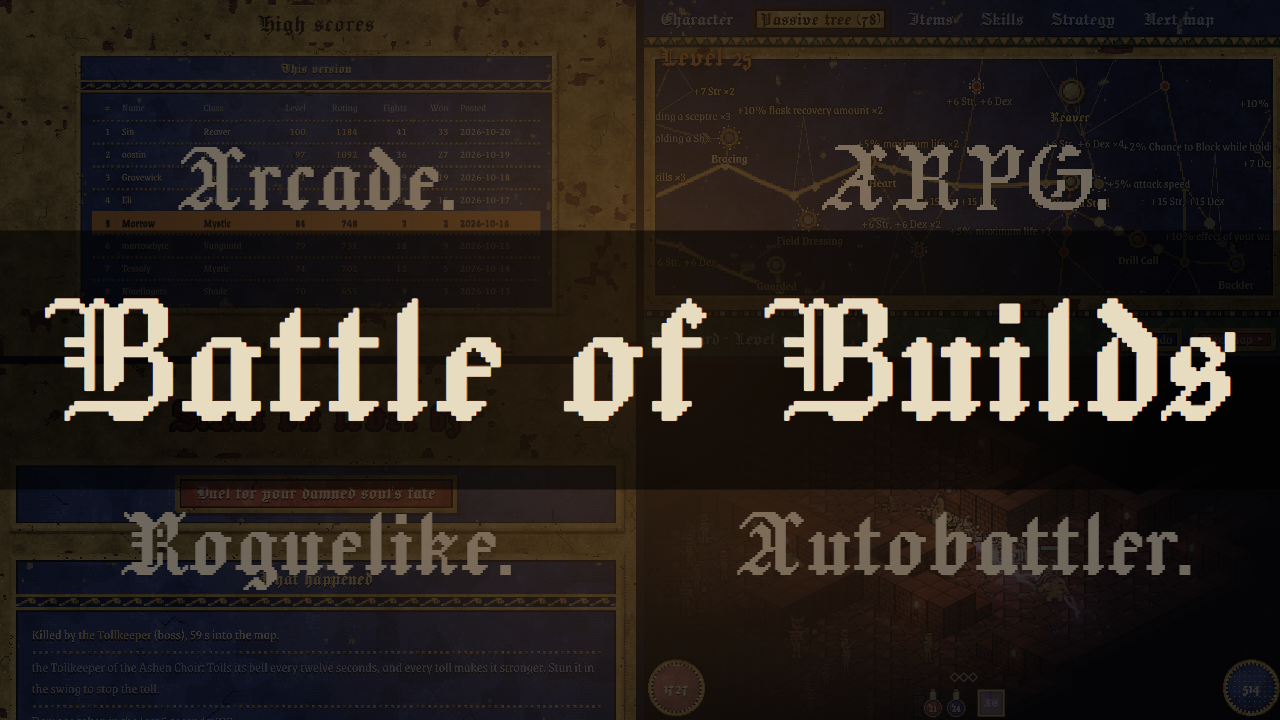
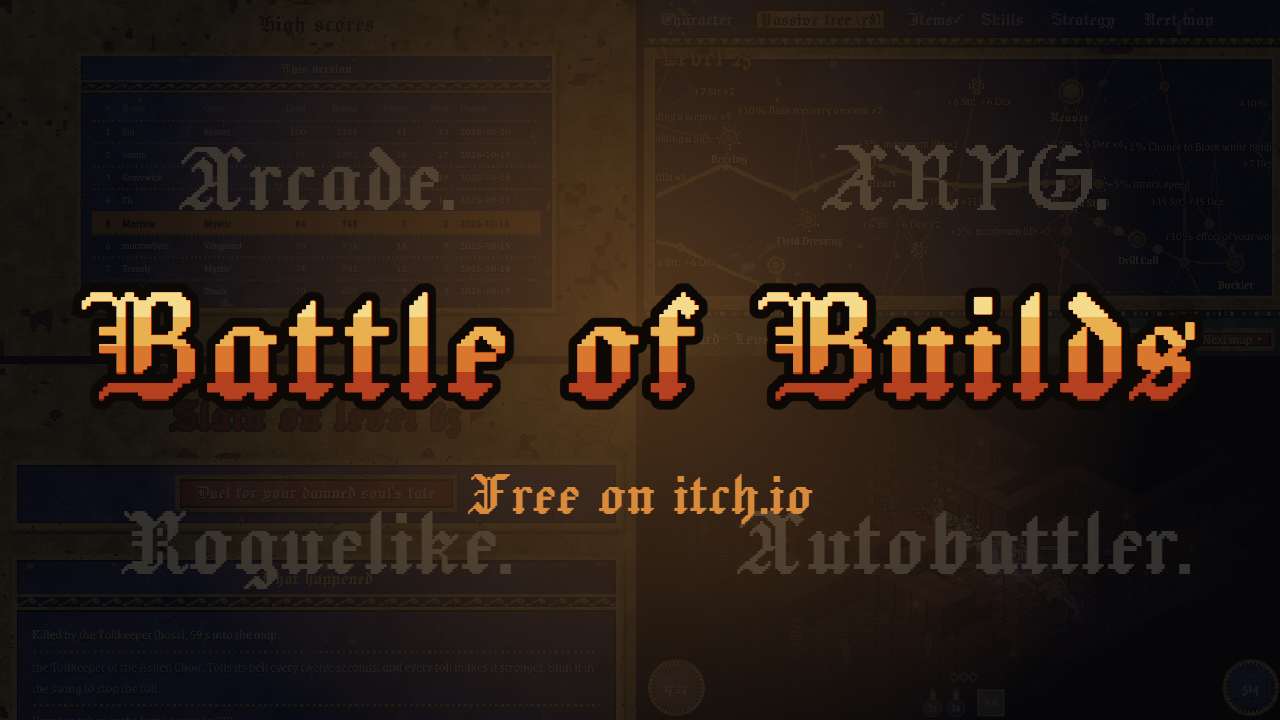
Thumbnail title: the end-of-trailer look with the title in the game's hellfire colours

Changed region(s): [[0.0312, 0.1833, 0.9688, 0.825], [0.0625, 0.8556, 0.0938, 0.8861]]

diff --git a/docs/trailer/cut.html b/docs/trailer/cut.html
@@ -726,23 +726,37 @@
         const out = clamp((lt - 2.6) / 0.4);
         let s =
           SHOTS.find((x) => x.name === 'The genres').draw(2 + lt) +
-          `<rect width="320" height="180" fill="#07070b" opacity="${THUMB_TITLE ? 0.55 : lerp(0, 0.8, ease(lt / 0.25)) + 0.2 * out}"/>`;
+          `<rect width="320" height="180" fill="#07070b" opacity="${lerp(0, 0.8, ease(lt / 0.25)) + 0.2 * out}"/>`;
         s += glow(160, 80, 130, C.torch, flick * (1 - out));
         s +=
           `<g opacity="${ease(lt / 0.3) * (1 - out)}">` +
           (THUMB_TITLE
-            ? `<rect y="58" width="320" height="64" fill="#000" opacity=".55"/>` +
-              txt(160, 105, 'Battle of Builds', { size: 52, font: 'display', anchor: 'middle' })
+            ? /* the title as the game's title screen sets it: pale gold down to ember in hard bands, ringed in ink */
+              `<defs><linearGradient id="hell" x1="0" y1="0" x2="0" y2="1">` +
+              [
+                ['#f4dc8c', 0, 34],
+                ['#e9b04f', 34, 50],
+                ['#d9772f', 50, 64],
+                ['#b4401f', 64, 78],
+                ['#7c2414', 78, 100],
+              ]
+                .map(
+                  ([c, a, b]) =>
+                    `<stop offset="${a}%" stop-color="${c}"/><stop offset="${b}%" stop-color="${c}"/>`,
+                )
+                .join('') +
+              `</linearGradient></defs>` +
+              `<text x="160" y="100" text-anchor="middle" font-family="'Jacquard 24', Georgia, serif" font-size="46" letter-spacing="1" stroke="#0b0805" stroke-width="4.5" stroke-linejoin="round" paint-order="stroke" fill="url(#hell)">Battle of Builds</text>` +
+              `<text x="160" y="100" text-anchor="middle" font-family="'Jacquard 24', Georgia, serif" font-size="46" letter-spacing="1" fill="url(#hell)">Battle of Builds</text>`
             : txt(160, 86, 'Battle of Builds', { size: 32, font: 'display', anchor: 'middle' })) +
           '</g>';
-        if (!THUMB_TITLE)
-          s += txt(160, 120, 'Free on itch.io', {
-            size: 17,
-            font: 'display',
-            col: C.torch,
-            anchor: 'middle',
-            o: clamp((lt - 0.4) / 0.2) * (1 - out),
-          });
+        s += txt(160, THUMB_TITLE ? 128 : 120, 'Free on itch.io', {
+          size: 17,
+          font: 'display',
+          col: C.torch,
+          anchor: 'middle',
+          o: clamp((lt - 0.4) / 0.2) * (1 - out),
+        });
         return s;
       },
     },

diff --git a/scripts/trailer/thumbnail.ts b/scripts/trailer/thumbnail.ts
@@ -17,7 +17,7 @@ const OUT = path.resolve(
 /** After the fourth word has stamped in (27.5 s) and settled, before the title shot. */
 const AT = 27.95;
 /** The title shot, once the title is in. */
-const AT_TITLE = 29.8;
+const AT_TITLE = 29.7;
 
 async function main(): Promise<void> {
   const lib = 'playwright-core';
